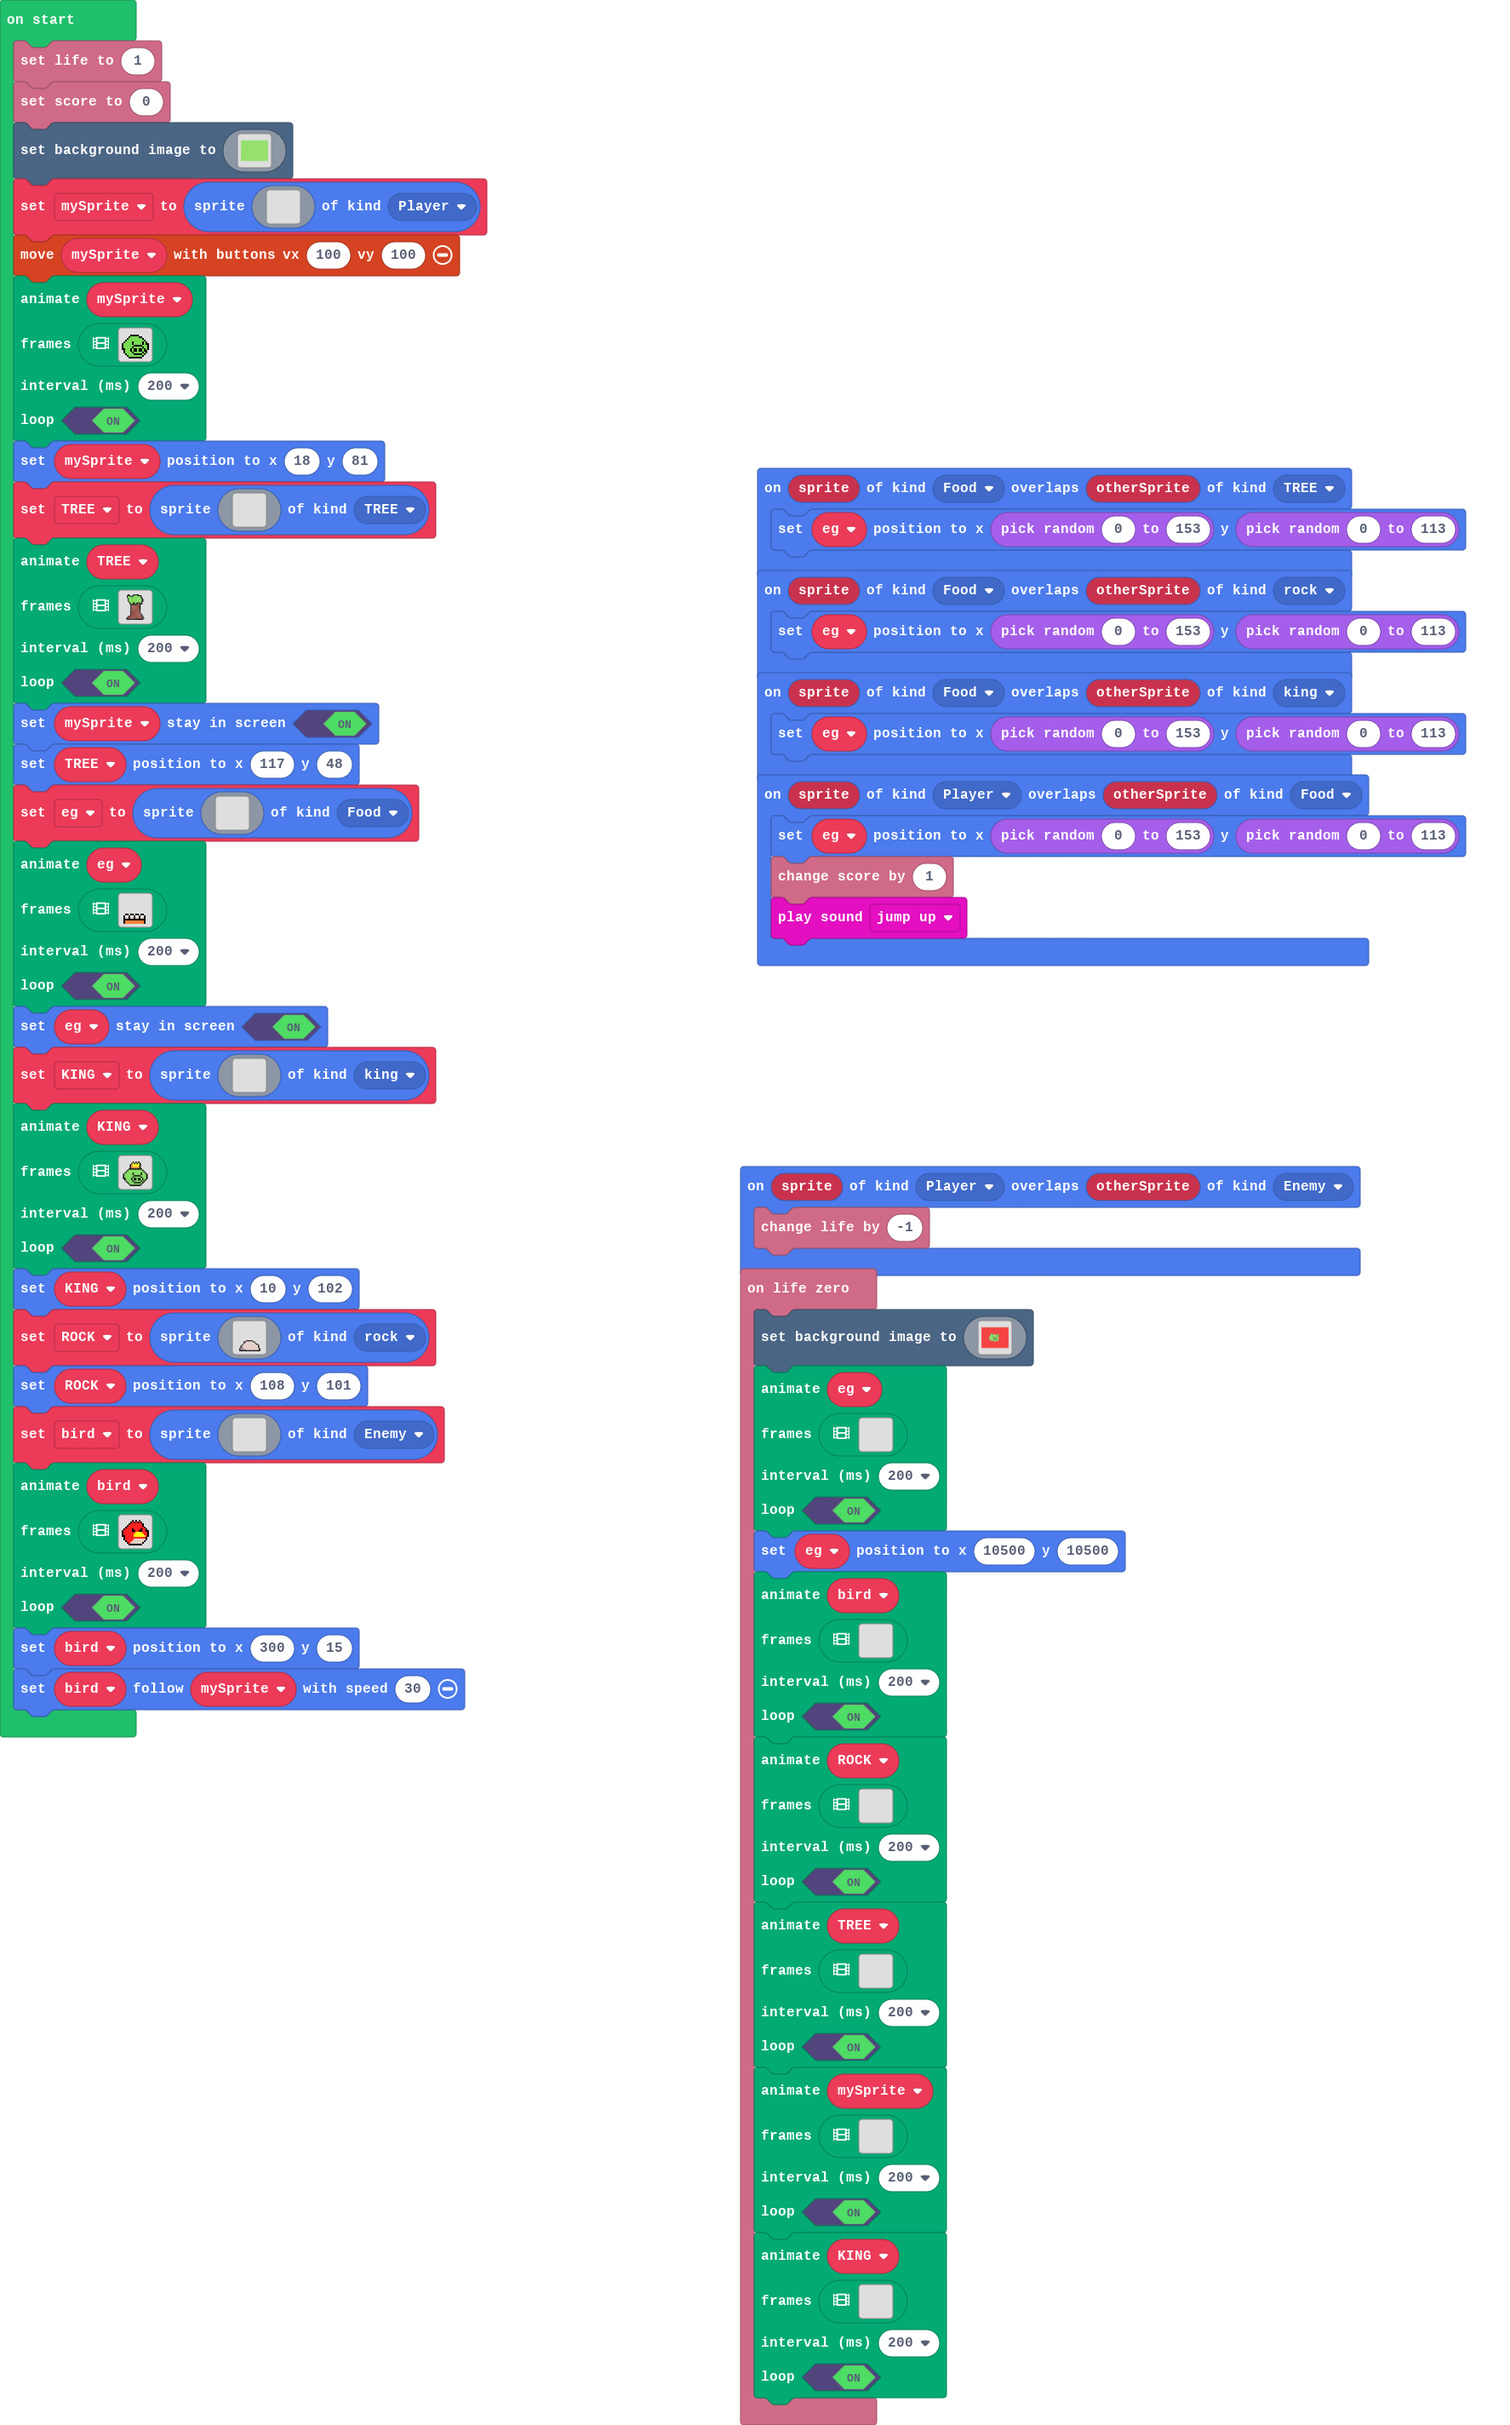
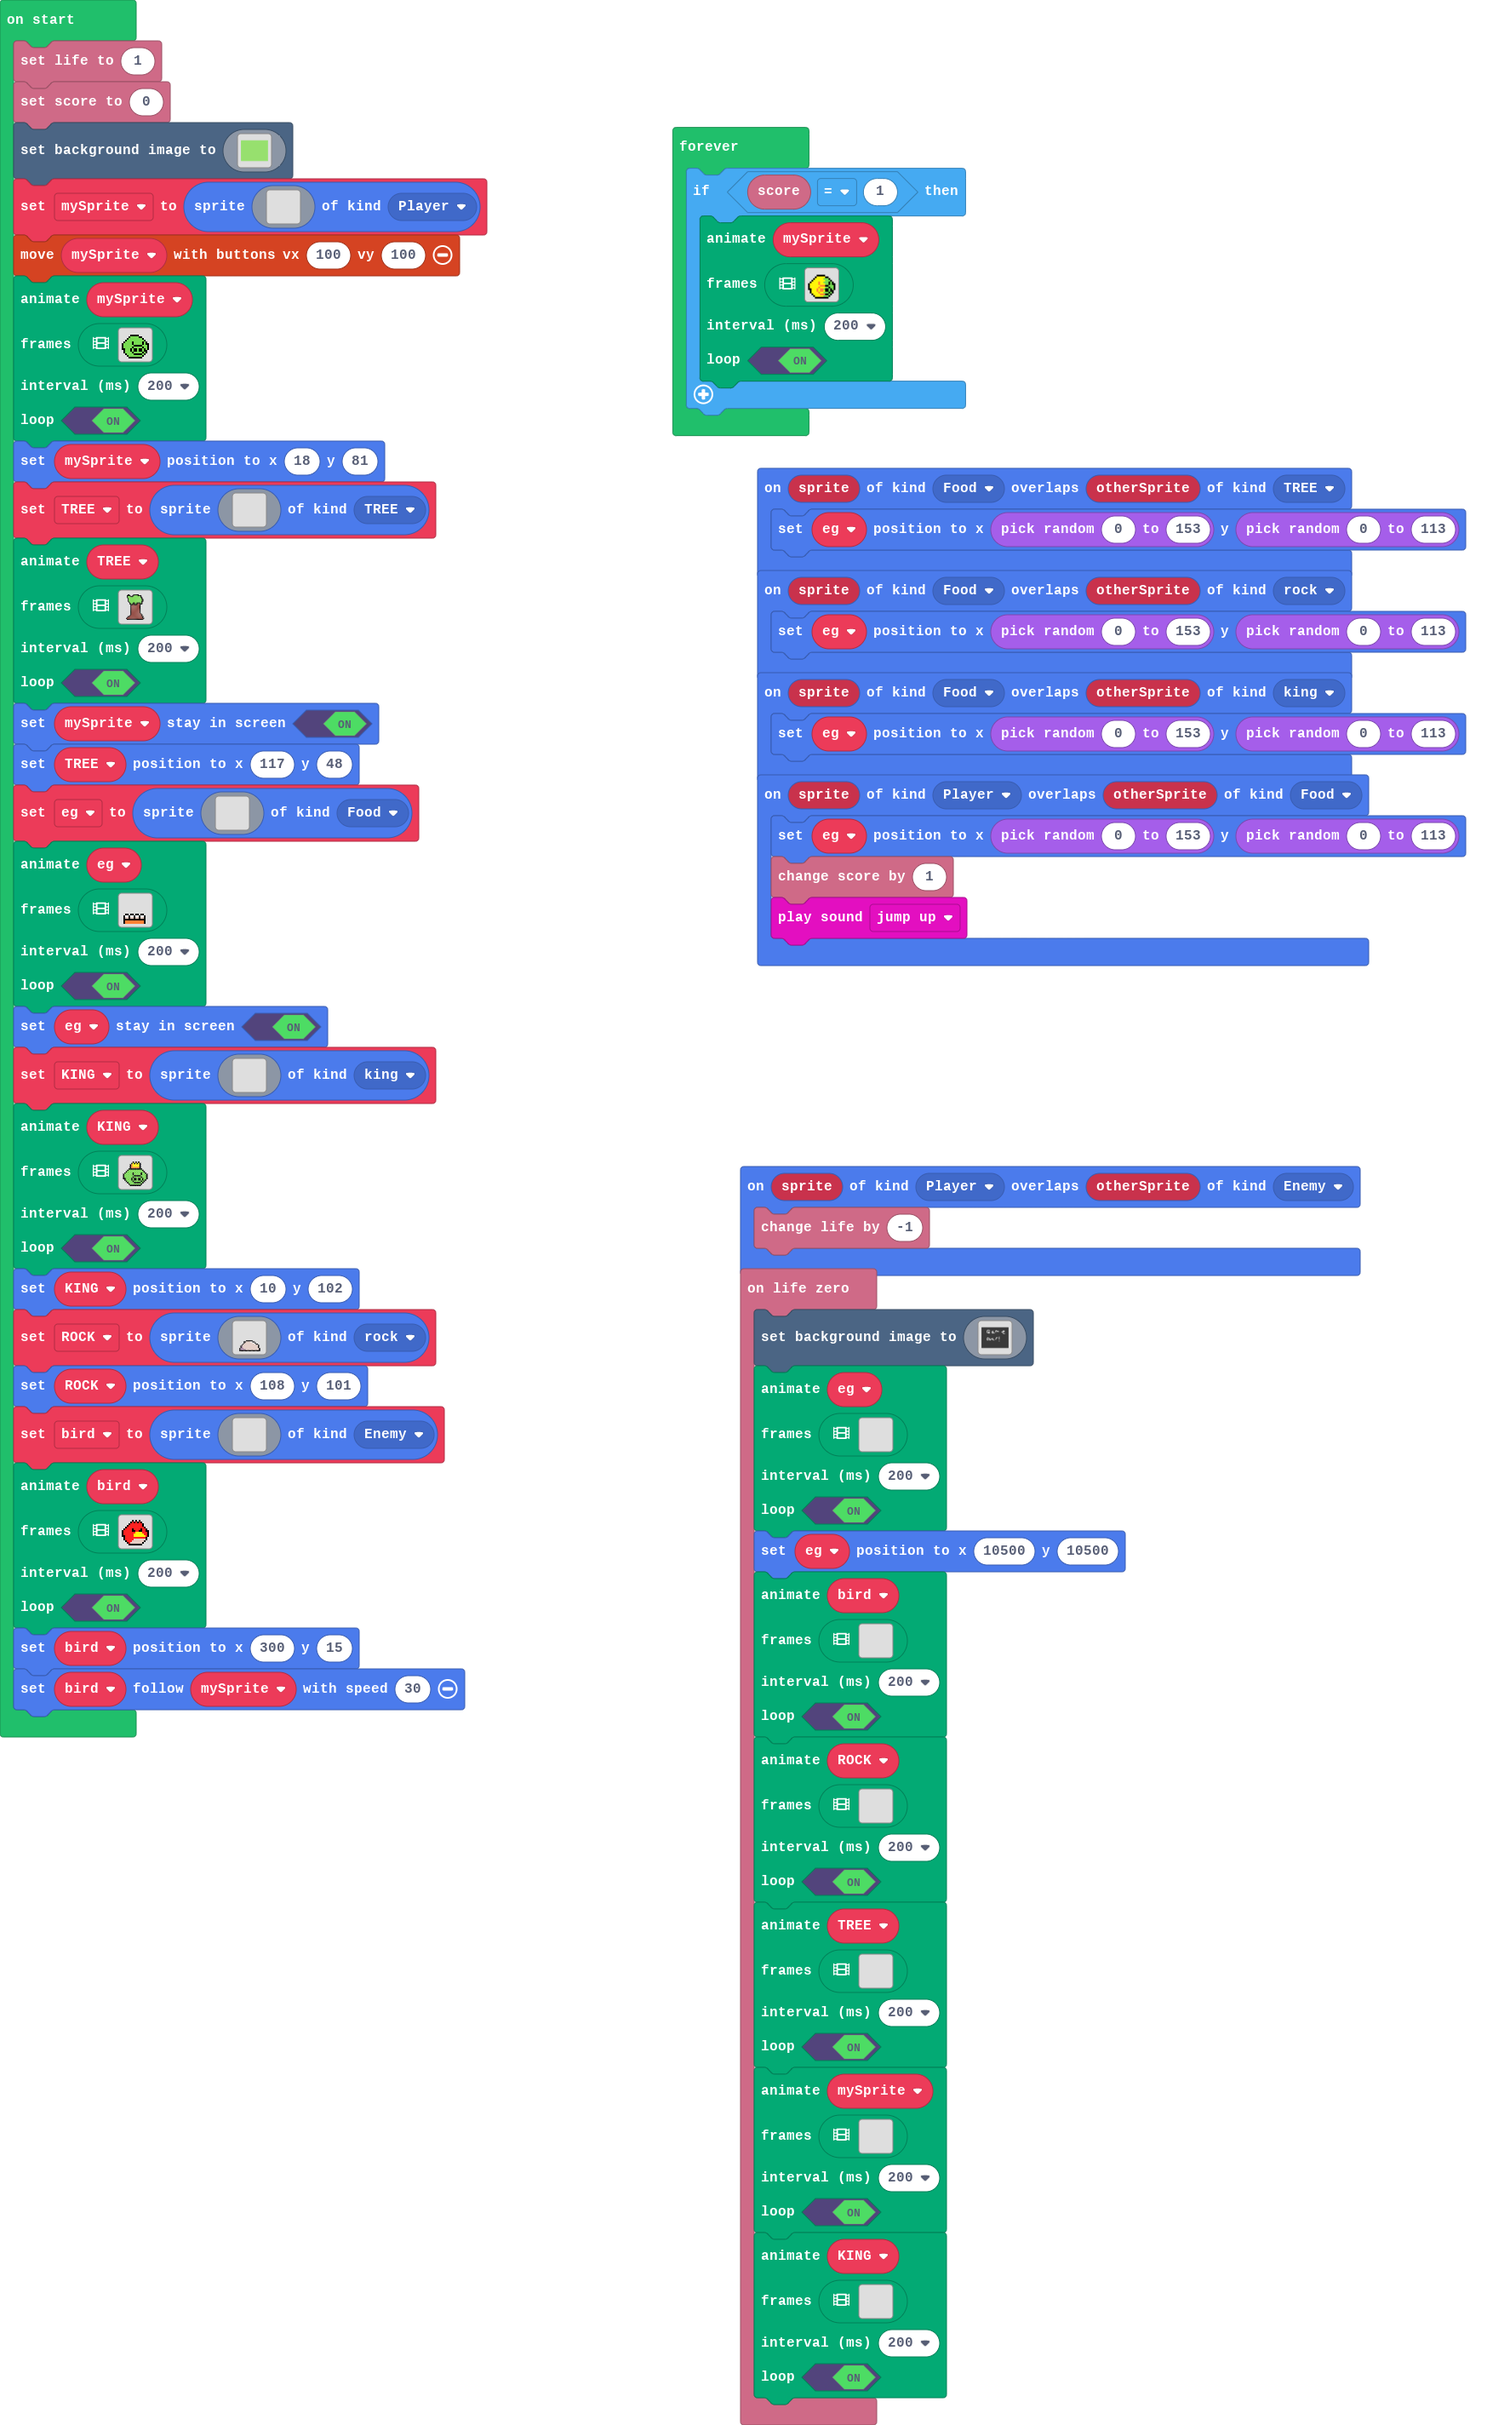
Update main.blocks, main.ts, images.g.jres, images.g.ts

Changed region(s): [[0.434, 0.0312, 0.6511, 0.1875], [0.6511, 0.5312, 0.6821, 0.5625]]

diff --git a/images.g.ts b/images.g.ts
@@ -661,6 +661,95 @@ f f 2 2 2 2 2 5 5 5 5 5 5 5 2 f
 . . . . . . . . . . . . . . . . 
 . . . . . . . . . . . . . . . . 
 `];
+            case "GOLD PIG":
+            case "anim7":return [img`
+. . . . . . . . . . . . . . . . 
+. . . . . . . . . . . . . . . . 
+. . . . . f f f f f . . . . . . 
+. . . . f 5 5 5 5 5 f f . . . . 
+. . . f 5 5 5 5 5 5 5 5 f . . . 
+. . f 5 5 5 5 5 5 5 5 5 5 f . . 
+. f 5 5 5 5 4 5 5 5 5 5 4 5 f . 
+f 5 5 5 5 5 4 5 5 5 5 5 4 5 f f 
+f 5 5 5 5 5 5 4 4 4 4 4 5 5 5 f 
+f 5 5 5 5 5 4 5 5 5 5 5 4 5 5 f 
+f f 5 5 5 4 5 4 4 5 4 4 5 4 5 f 
+. f 5 5 5 4 5 4 4 5 4 4 5 4 f . 
+. f 5 5 5 5 4 5 5 5 5 5 4 5 f . 
+. . f 5 5 5 5 4 4 4 4 4 5 f . . 
+. . . f 5 5 5 5 5 5 5 5 f . . . 
+. . . . f f f f f f f f . . . . 
+`, img`
+. . . . . . . . . . . . . . . . 
+. . . . . . . . . . . . . . . . 
+. . . . . f f f f f . . . . . . 
+. . . . f 5 5 5 5 5 f f . . . . 
+. . . f 5 5 5 5 5 5 5 5 f . . . 
+. . f 5 5 5 5 5 5 5 5 5 5 f . . 
+. f 5 5 5 5 2 5 5 5 5 5 2 5 f . 
+f 5 5 5 5 5 2 5 5 5 5 5 2 5 f f 
+f 5 5 5 5 5 5 2 2 2 2 2 5 5 5 f 
+f 5 5 5 5 5 2 5 5 5 5 5 2 5 5 f 
+f f 5 5 5 2 5 2 2 5 2 2 5 2 5 f 
+. f 5 5 5 2 5 2 2 5 2 2 5 2 f . 
+. f 5 5 5 5 2 5 5 5 5 5 2 5 f . 
+. . f 5 5 5 5 2 2 2 2 2 5 f . . 
+. . . f 5 5 5 5 5 5 5 5 f . . . 
+. . . . f f f f f f f f . . . . 
+`, img`
+. . . . . . . . . . . . . . . . 
+. . . . . . . . . . . . . . . . 
+. . . . . f f f f f . . . . . . 
+. . . . f 5 5 5 5 5 f f . . . . 
+. . . f 5 5 5 5 5 5 5 5 f . . . 
+. . f 5 5 5 5 5 5 5 5 5 5 f . . 
+. f 5 5 5 5 d 5 5 5 5 5 d 5 f . 
+f 5 5 5 5 5 d 5 5 5 5 5 d 5 f f 
+f 5 5 5 5 5 5 d d d d d 5 5 5 f 
+f 5 5 5 5 5 d 5 5 5 5 5 d 5 5 f 
+f f 5 5 5 d 5 d d 5 d d 5 d 5 f 
+. f 5 5 5 d 5 d d 5 d d 5 d f . 
+. f 5 5 5 5 d 5 5 5 5 5 d 5 f . 
+. . f 5 5 5 5 d d d d d 5 f . . 
+. . . f 5 5 5 5 5 5 5 5 f . . . 
+. . . . f f f f f f f f . . . . 
+`];
+            case "pigIdle0":
+            case "anim8":return [img`
+. . . . . . . . . . . . . . . . 
+. . . . . . . . . . . . . . . . 
+. . . . . f f f f f . . . . . . 
+. . . . f 5 5 5 5 5 f f . . . . 
+. . . f 5 5 5 5 5 7 7 7 f . . . 
+. . f 5 5 5 5 5 5 5 7 7 7 f . . 
+. f 5 5 5 5 4 5 5 7 7 7 f 7 f . 
+f 5 5 5 5 5 4 5 5 5 7 7 f 7 f f 
+f 5 5 5 5 5 5 4 4 4 f f 7 7 7 f 
+f 5 5 5 5 5 4 5 5 5 7 7 f 7 7 f 
+f f 5 5 5 4 5 4 4 7 f f 7 f 7 f 
+. f 5 5 5 4 5 4 4 5 f f 7 f f . 
+. f 5 5 5 5 4 5 5 7 7 7 f 7 f . 
+. . f 5 5 5 5 4 4 4 f f 7 f . . 
+. . . f 5 5 5 5 5 7 7 7 f . . . 
+. . . . f f f f f f f f . . . . 
+`, img`
+. . . . . . . . . . . . . . . . 
+. . . . . . . . . . . . . . . . 
+. . . . . f f f f f . . . . . . 
+. . . . f 5 5 5 5 5 f f . . . . 
+. . . f 5 5 5 5 5 7 7 7 f . . . 
+. . f 5 5 5 5 5 5 5 7 7 7 f . . 
+. f 5 5 5 5 2 5 5 7 7 7 7 7 f . 
+f 5 5 5 5 5 2 5 5 5 7 7 f 7 f f 
+f 5 5 5 5 5 5 2 2 2 f f 7 7 7 f 
+f 5 5 5 5 5 2 5 5 5 7 7 f 7 7 f 
+f f 5 5 5 2 5 2 2 7 f f 7 f 7 f 
+. f 5 5 5 2 5 2 2 5 f f 7 f f . 
+. f 5 5 5 5 2 5 5 7 7 7 f 7 f . 
+. . f 5 5 5 5 2 2 2 f f 7 f . . 
+. . . f 5 5 5 5 5 7 7 7 f . . . 
+. . . . f f f f f f f f . . . . 
+`];
         }
         return null;
     })

diff --git a/main.ts b/main.ts
@@ -199,3 +199,13 @@ true
 )
 bird.setPosition(300, 15)
 bird.follow(mySprite, 30)
+forever(function () {
+    if (info.score() == 1) {
+        animation.runImageAnimation(
+        mySprite,
+        assets.animation`pigIdle0`,
+        200,
+        true
+        )
+    }
+})
